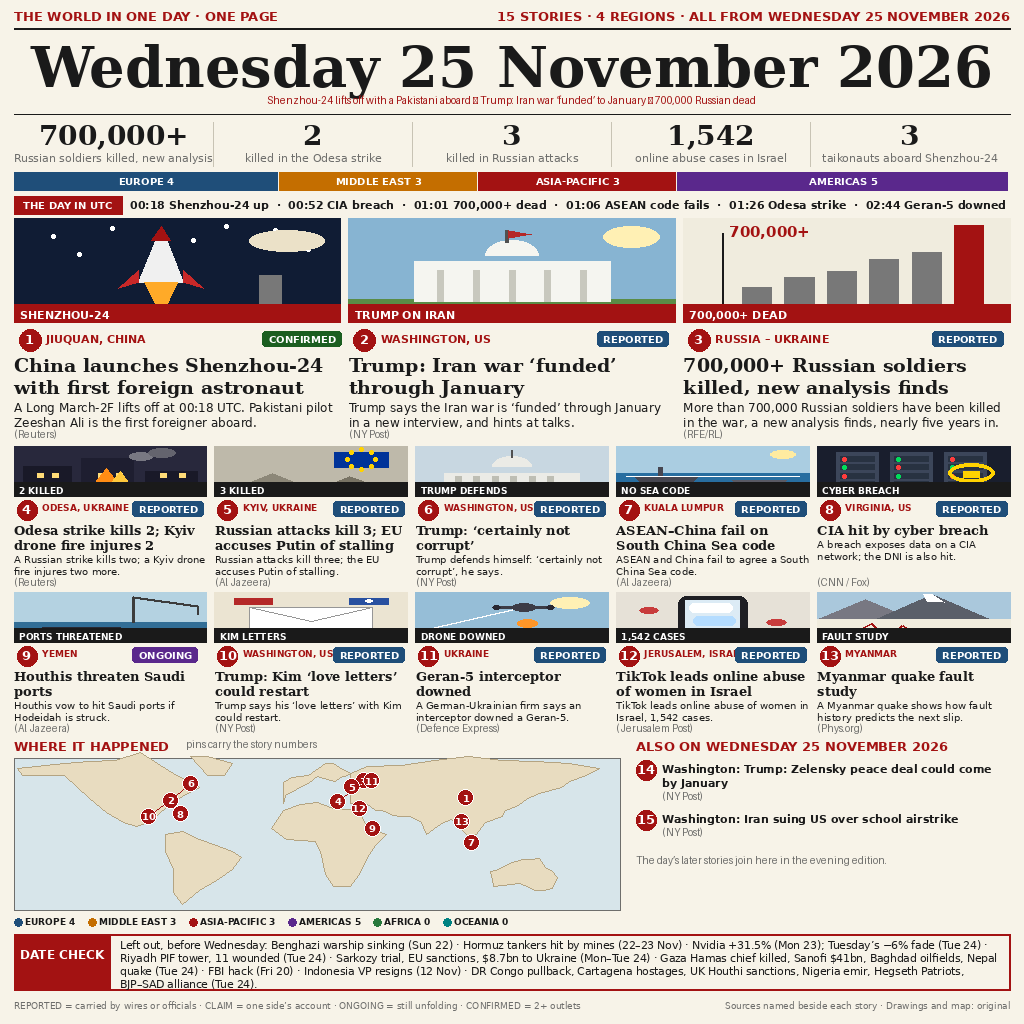
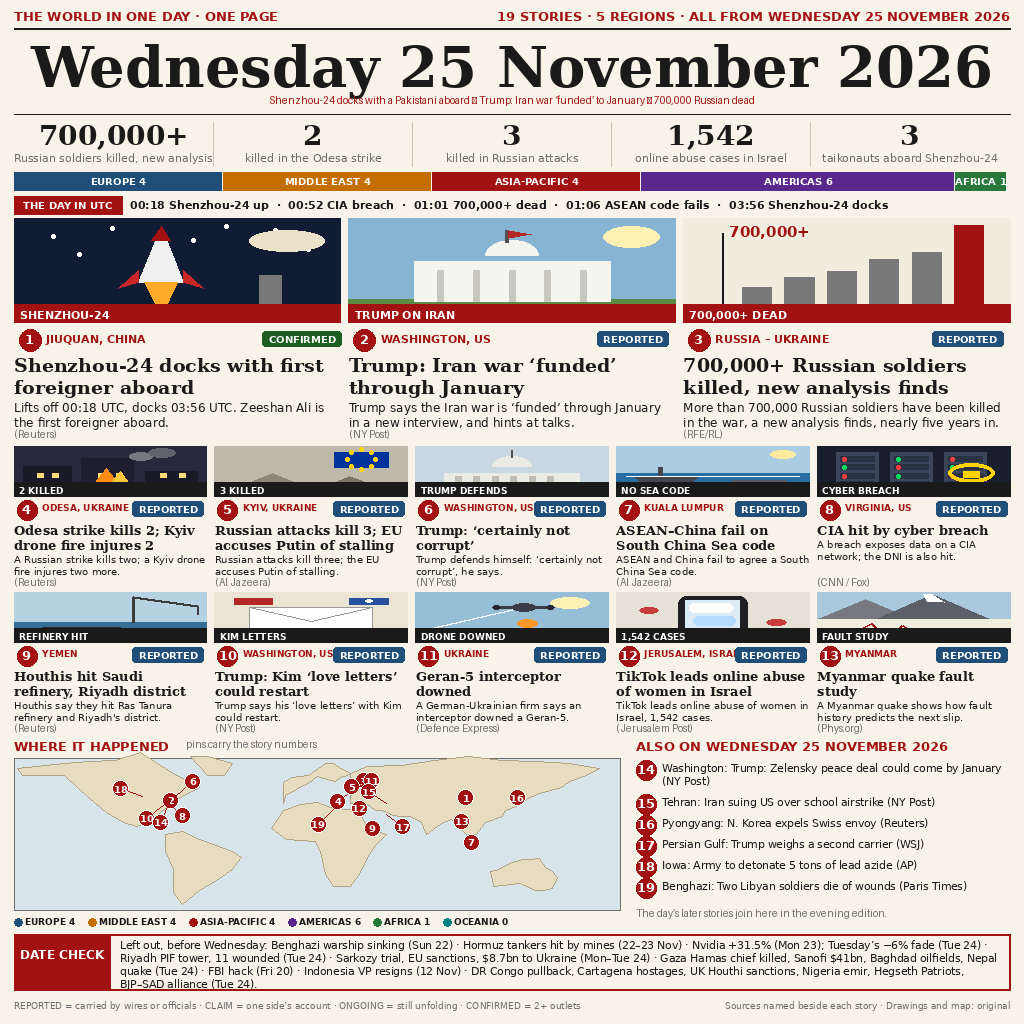
v2 Turn B: 19 stories (13 illustrated + 6 ALSO ON) — Shenzhou-24 docks, Houthi refinery attack, N. Korea expels Swiss envoy, 5 regions incl. Africa

diff --git a/draw_frontpage.py b/draw_frontpage.py
@@ -331,9 +331,9 @@ SCENES = {"rocket": scene_rocket, "whitehouse": scene_whitehouse,
 # (n, place, certainty, label, headline, summary, source, scene)
 LEADS = [
     (1, "JIUQUAN, CHINA", "CONFIRMED", "SHENZHOU-24",
-     "China launches Shenzhou-24 with first foreign astronaut",
-     "A Long March-2F lifts off at 00:18 UTC. Pakistani pilot Zeeshan Ali "
-     "is the first foreigner aboard.",
+     "Shenzhou-24 docks with first foreigner aboard",
+     "Lifts off 00:18 UTC, docks 03:56 UTC. Zeeshan Ali is the first "
+     "foreigner aboard.",
      "Reuters", "rocket"),
     (2, "WASHINGTON, US", "REPORTED", "TRUMP ON IRAN",
      "Trump: Iran war \u2018funded\u2019 through January",
@@ -368,10 +368,10 @@ SMALL = [
      "CIA hit by cyber breach",
      "A breach exposes data on a CIA network; the DNI is also hit.",
      "CNN / Fox", "server"),
-    (9, "YEMEN", "ONGOING", "PORTS THREATENED",
-     "Houthis threaten Saudi ports",
-     "Houthis vow to hit Saudi ports if Hodeidah is struck.",
-     "Al Jazeera", "port"),
+    (9, "YEMEN", "REPORTED", "REFINERY HIT",
+     "Houthis hit Saudi refinery, Riyadh district",
+     "Houthis say they hit Ras Tanura refinery and Riyadh's district.",
+     "Reuters", "port"),
     (10, "WASHINGTON, US", "REPORTED", "KIM LETTERS",
      "Trump: Kim \u2018love letters\u2019 could restart",
      "Trump says his \u2018love letters\u2019 with Kim could restart.",
@@ -393,8 +393,16 @@ SMALL = [
 ALSO_ON = [
     (14, "Washington", "Trump: Zelensky peace deal could come by January",
      "NY Post"),
-    (15, "Washington", "Iran suing US over school airstrike",
+    (15, "Tehran", "Iran suing US over school airstrike",
      "NY Post"),
+    (16, "Pyongyang", "N. Korea expels Swiss envoy",
+     "Reuters"),
+    (17, "Persian Gulf", "Trump weighs a second carrier",
+     "WSJ"),
+    (18, "Iowa", "Army to detonate 5 tons of lead azide",
+     "AP"),
+    (19, "Benghazi", "Two Libyan soldiers die of wounds",
+     "Paris Times"),
 ]
 
 STATS = [
@@ -410,13 +418,12 @@ TICKER = [
     ("00:52", "CIA breach"),
     ("01:01", "700,000+ dead"),
     ("01:06", "ASEAN code fails"),
-    ("01:26", "Odesa strike"),
-    ("02:44", "Geran-5 downed"),
+    ("03:56", "Shenzhou-24 docks"),
 ]
 
-REGIONS = [("EUROPE", 4, (31, 78, 121)), ("MIDDLE EAST", 3, (196, 110, 0)),
-           ("ASIA-PACIFIC", 3, (163, 18, 18)), ("AMERICAS", 5, (90, 40, 140)),
-           ("AFRICA", 0, (40, 120, 60)), ("OCEANIA", 0, (0, 130, 130))]
+REGIONS = [("EUROPE", 4, (31, 78, 121)), ("MIDDLE EAST", 4, (196, 110, 0)),
+           ("ASIA-PACIFIC", 4, (163, 18, 18)), ("AMERICAS", 6, (90, 40, 140)),
+           ("AFRICA", 1, (40, 120, 60)), ("OCEANIA", 0, (0, 130, 130))]
 
 DATE_CHECK = (
     "Left out, before Wednesday: Benghazi warship sinking (Sun 22) \u00b7 "
@@ -430,15 +437,18 @@ DATE_CHECK = (
 )
 
 # display offsets (px) for pins that would otherwise stack on the map
-PIN_OFFSETS = {4: (-14, 10), 6: (16, -14), 10: (-16, 12), 8: (14, 12),
-               11: (16, -8)}
+PIN_OFFSETS = {4: (-14, 10), 6: (18, -16), 10: (-18, 14), 8: (16, 14),
+               11: (16, -8), 14: (-10, 22), 15: (-18, -12), 17: (16, 12),
+               18: (-22, -8), 19: (-16, 16)}
 
 # (lon, lat) for each numbered pin
 PINS = {1: (98.5, 40.9), 2: (-77.0, 39.0), 3: (37.6, 55.7),
         4: (30.7, 46.5), 5: (30.5, 50.4), 6: (-74.5, 41.5),
         7: (101.7, 3.1), 8: (-79.5, 37.5), 9: (42.9, 14.8),
         10: (-80.5, 35.5), 11: (33.0, 48.5), 12: (35.2, 31.8),
-        13: (96.0, 21.0)}
+        13: (96.0, 21.0), 14: (-77.0, 39.0), 15: (51.4, 35.7),
+        16: (129.1, 41.0), 17: (51.5, 26.5), 18: (-93.6, 42.0),
+        19: (20.1, 32.1)}
 
 CONTINENTS = [
     [(-168, 66), (-140, 70), (-125, 72), (-110, 73), (-95, 80), (-85, 70),
@@ -499,14 +509,14 @@ def main():
     f_top = font(SANS_B, 13)
     d.text((mx, 8), "THE WORLD IN ONE DAY \u00b7 ONE PAGE",
            font=f_top, fill=RED)
-    right = "15 STORIES \u00b7 4 REGIONS \u00b7 ALL FROM WEDNESDAY 25 NOVEMBER 2026"
+    right = "19 STORIES \u00b7 5 REGIONS \u00b7 ALL FROM WEDNESDAY 25 NOVEMBER 2026"
     d.text((W - mx, 8), right, font=f_top, fill=RED, anchor="ra")
     d.line([mx, 28, W - mx, 28], fill=INK, width=2)
 
     d.text((W // 2, 34), "Wednesday 25 November 2026",
            font=font(SERIF_B, 56), fill=INK, anchor="ma")
     d.text((W // 2, 94),
-           "Shenzhou-24 lifts off with a Pakistani aboard \u25c6 Trump: Iran war "
+           "Shenzhou-24 docks with a Pakistani aboard \u25c6 Trump: Iran war "
            "\u2018funded\u2019 to January \u25c6 700,000 Russian dead",
            font=font(SERIF_I, 16), fill=RED, anchor="ma")
     d.line([mx, 114, W - mx, 114], fill=INK, width=1)
@@ -605,10 +615,10 @@ def main():
     for n, place, head, src in ALSO_ON:
         num_badge(d, ax + 10, ay + 8, n, r=10)
         hy = text_lines(d, ax + 26, ay,
-                        wrap(d, f"{place}: {head}", font(SANS_B, 11), 348),
-                        font(SANS_B, 11), leading=14)
-        d.text((ax + 26, hy), f"({src})", font=font(SANS_I, 10), fill=GREY)
-        ay = hy + 22
+                        wrap(d, f"{place}: {head} ({src})",
+                             font(SANS, 10.5), 348),
+                        font(SANS, 10.5), leading=13)
+        ay = hy + 8
     d.text((ax, ay + 6),
            "The day\u2019s later stories join here in the evening edition.",
            font=font(SERIF_I, 11), fill=GREY)

diff --git a/README.md b/README.md
@@ -2,7 +2,7 @@
 [![rank](https://make.fun/badge/news-image-20261125/itslanaa/news-image-20261125/rank.svg)](https://make.fun/bounty/news-image-20261125/leaderboard?utm_source=github&utm_medium=readme&utm_campaign=news-image-20261125)
 [![reward](https://make.fun/badge/news-image-20261125/itslanaa/news-image-20261125/reward.svg)](https://make.fun/bounty/news-image-20261125?utm_source=github&utm_medium=readme&utm_campaign=news-image-20261125)
 
-# News Image 20261125 v1 — The World in One Day
+# News Image 20261125 v2 — The World in One Day
 
 Sum up Wednesday 25 November 2026's world news in one image.
 
@@ -12,18 +12,19 @@ An entry for the [news-image-20261125 bounty on make.fun](https://make.fun/bount
 
 A one-page front page, 1024×1024, drawn fresh for this day:
 
-- **3 leads:** 720,000 Russian soldiers killed in Ukraine (leaked Rosstat
-  data via Mediazona/Meduza, reported 24–25 Nov); a Houthi strike hitting
-  Riyadh's PIF tower again, wounding 11; the Nvidia rally fading — shares
-  down 6% a day after a 31.5% surge, Nasdaq −1.5%, Dow over 50,000.
-- **Stats bar:** 720,000 dead · 11 wounded in Riyadh · 96 drones fired
-  overnight (73 shot down) · $8.7bn EU payment to Ukraine · 50 Boeing
-  737-8 jets ordered by Xiamen Airlines.
-- **6 regions, 33 stories:** Europe, Middle East, Asia-Pacific, Africa,
-  the Americas, and Business, Sport & Science — 36 stories in total
-  including the leads. Every story was verified against reporting from
-  25 November 2026 (Reuters, CNN, AP, Al Jazeera, RFE/RL and others).
-- **Map strip:** where the day happened, with the day's places marked.
+- **13 illustrated stories:** Shenzhou-24 launches and docks with the
+  first foreign astronaut aboard Tiangong; Trump on Iran, Kim and a
+  Zelensky peace deal; 700,000+ Russian soldiers killed; Odesa and Kyiv
+  strikes; the CIA breach; the Houthis hitting Ras Tanura and Riyadh;
+  ASEAN–China failing on a sea code; a Geran-5 downed; TikTok abuse in
+  Israel; a Myanmar quake study. Each has an original drawn scene, a
+  number, a place, a certainty badge and a named source.
+- **6 more in ALSO ON**, plus a stats strip, a UTC ticker, a region bar
+  and a world map with numbered pins 1–19 matching the stories.
+- **19 stories, 5 regions:** every story was verified as first reported
+  on Wednesday 25 November 2026 (Reuters, Xinhua, Al Jazeera, RFE/RL,
+  NY Post, WSJ and others). A DATE CHECK box lists what was left out
+  because it happened on an earlier day.
 
 ## How it is built
 
